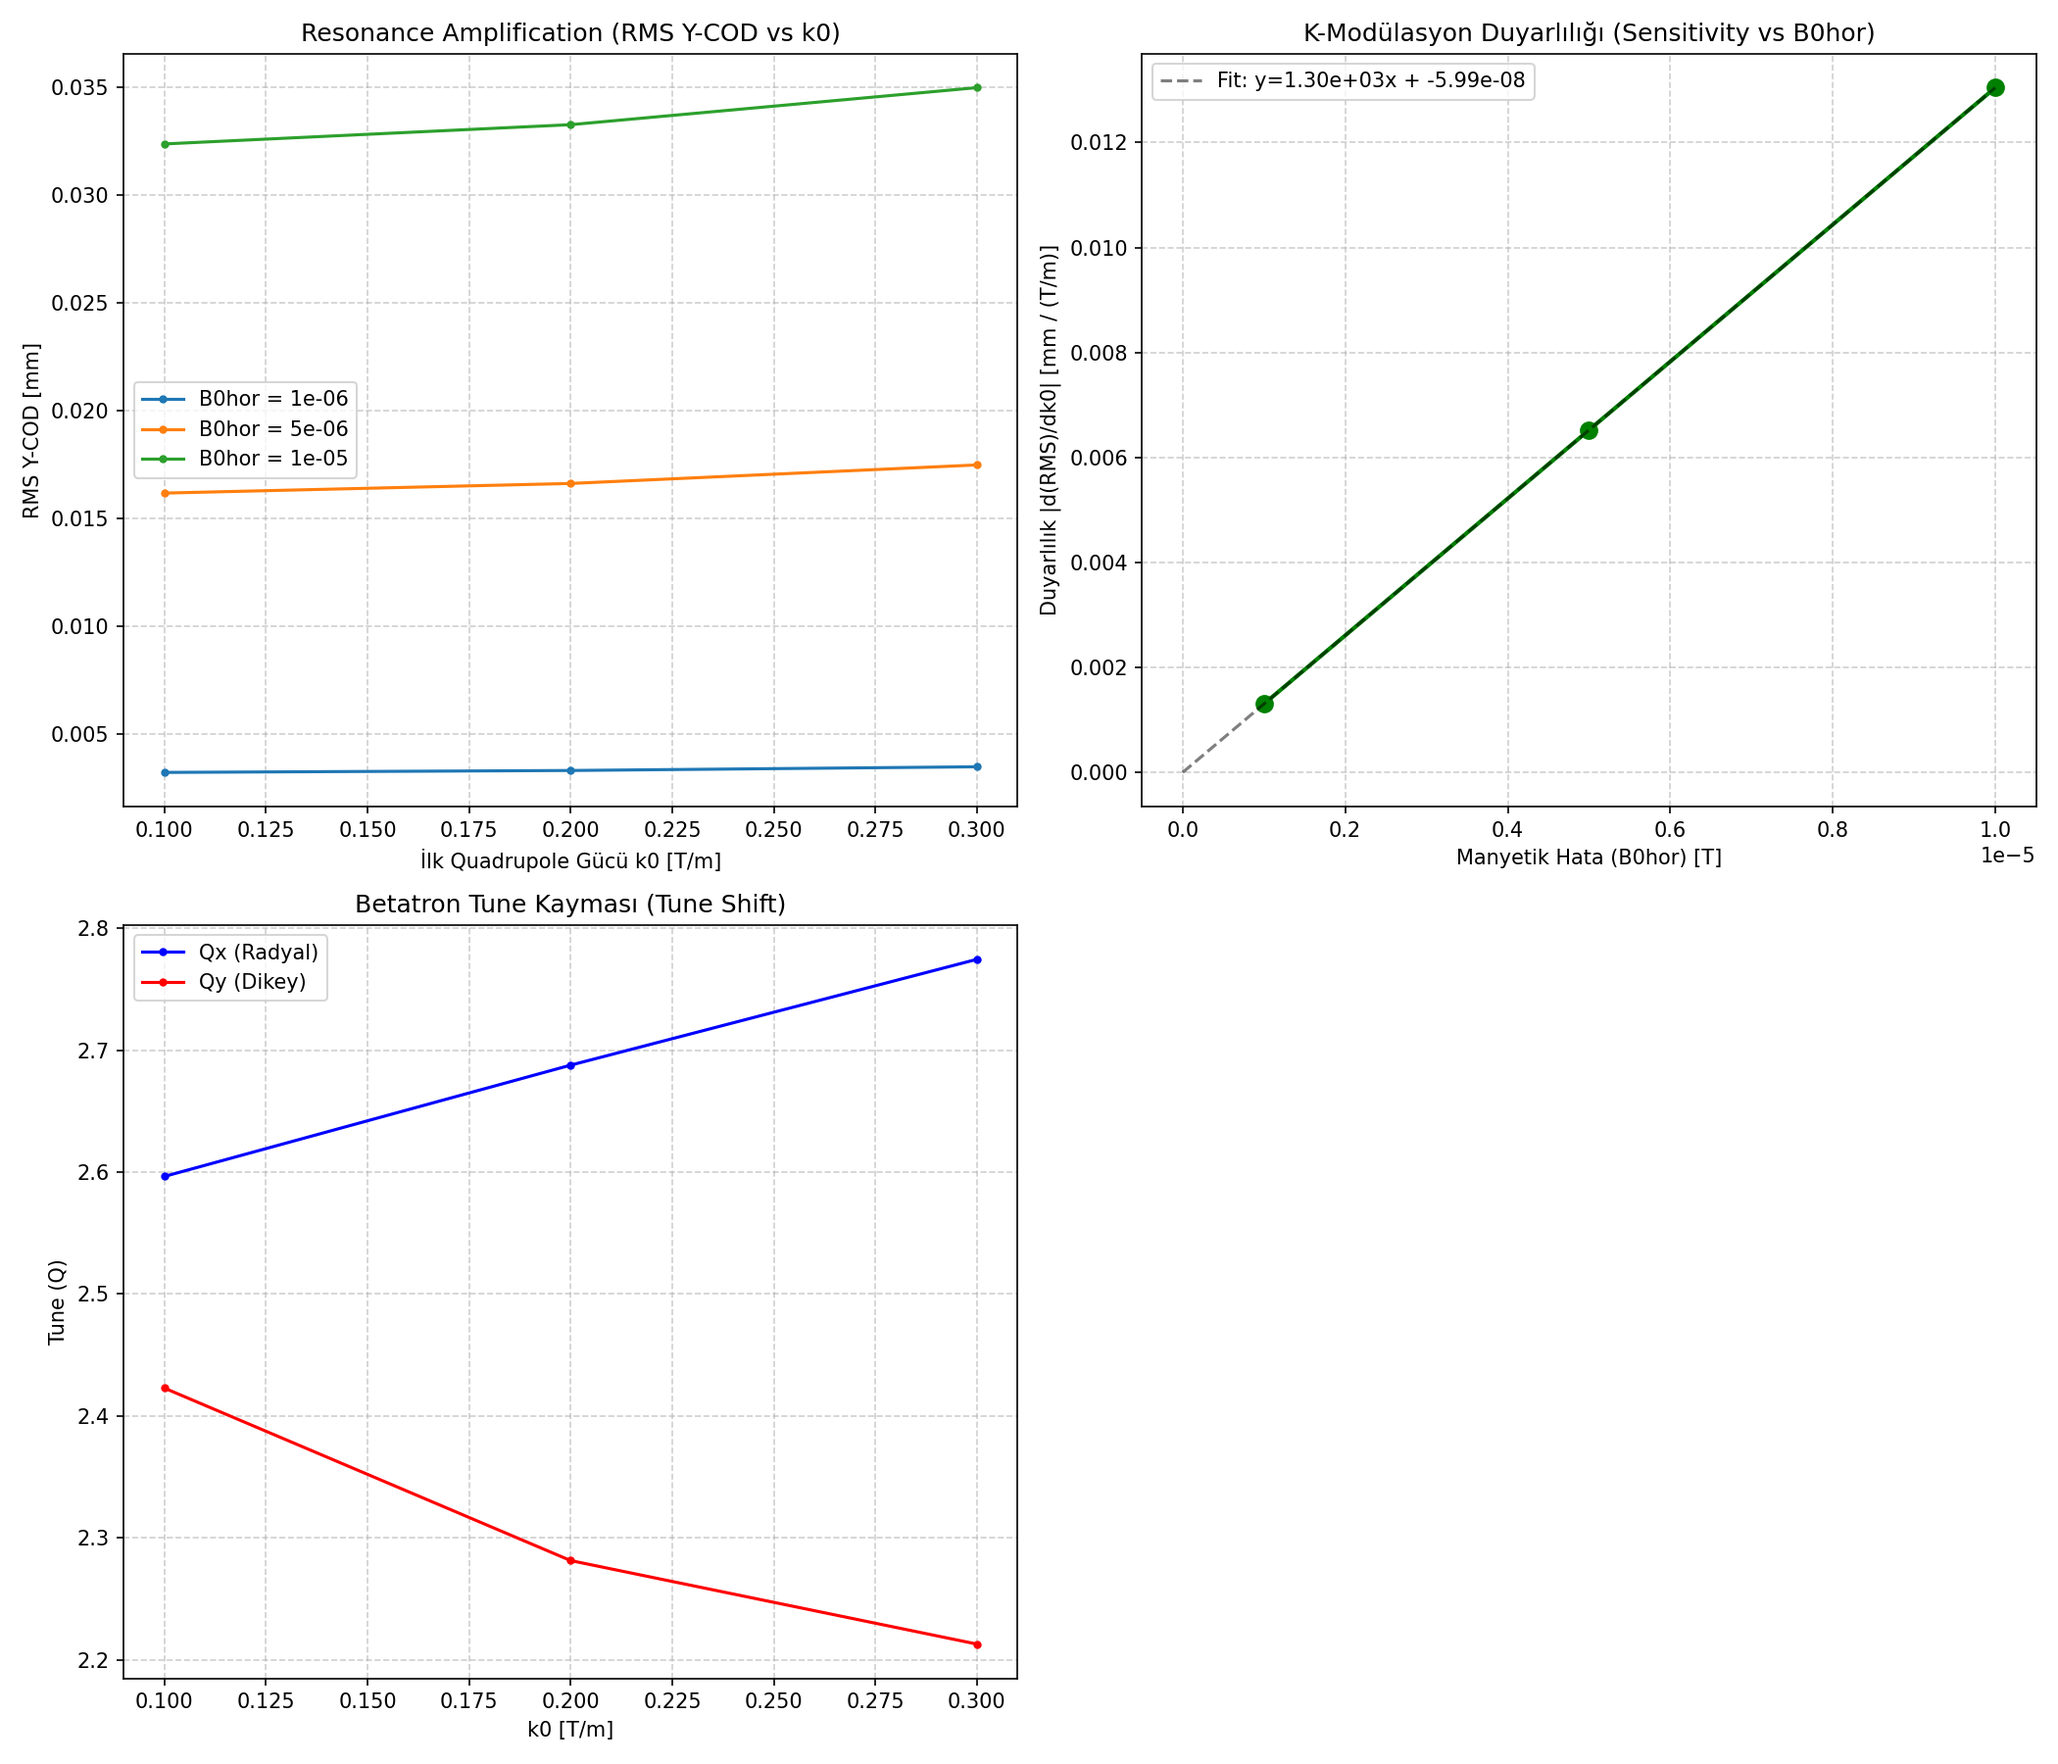
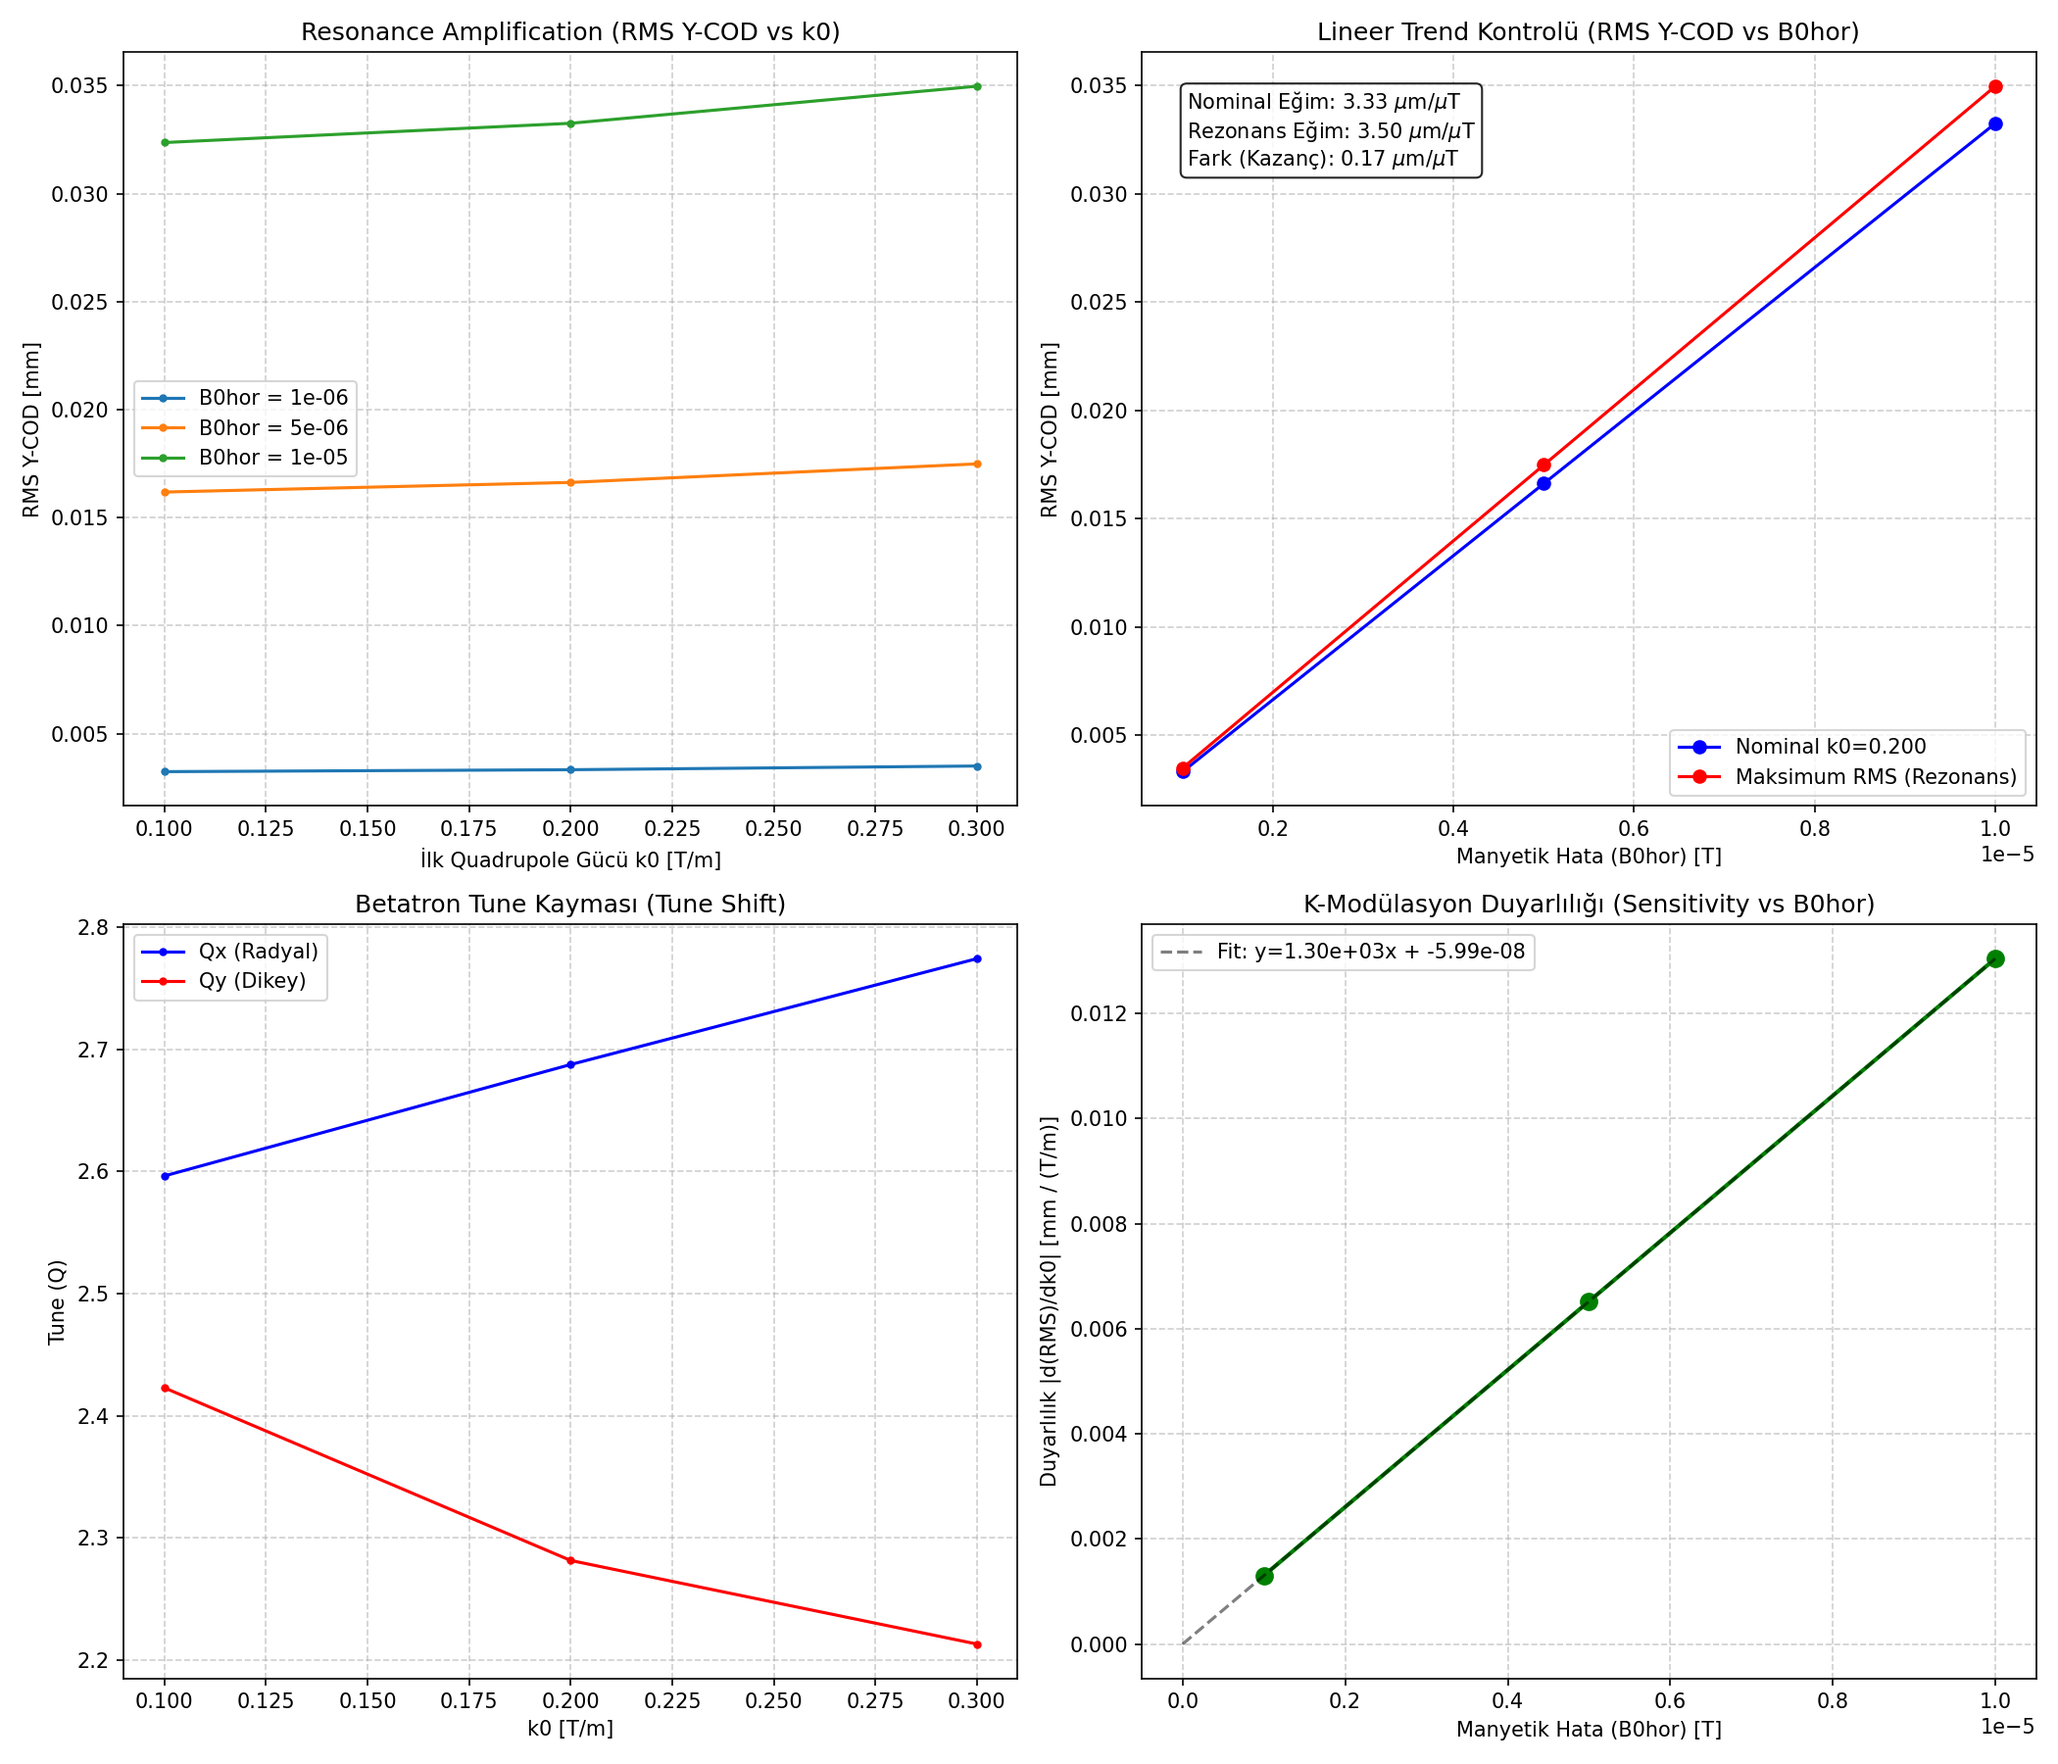
sweep_k0 uzerinden k-modulation eklendi.

diff --git a/sweep_k0.py b/sweep_k0.py
@@ -144,21 +144,36 @@ def plot_2d_results(npz_file="sweep_2d_results.npz", plot_file="sweep_2d_plots.p
     ax1.grid(True, linestyle='--', alpha=0.6)
     ax1.legend()
     
-    # 2. Linear Trend Check: K-Modulation Sensitivity vs B0hor
+    # 2. Linear Trend Check: RMS Y-COD vs B0hor
     ax2 = plt.subplot(2, 2, 2)
-    ax2.plot(B0hor, np.abs(slopes), 'go-', linewidth=2, markersize=8)
-    ax2.set_title("K-Modülasyon Duyarlılığı (Sensitivity vs B0hor)")
+    idx_nominal = np.argmin(np.abs(k0 - 0.2))
+    max_rms_per_bhor = np.max(rms_y, axis=1)
+    
+    ax2.plot(B0hor, rms_y[:, idx_nominal], 'bo-', label=f'Nominal k0={k0[idx_nominal]:.3f}')
+    ax2.plot(B0hor, max_rms_per_bhor, 'ro-', label=f'Maksimum RMS (Rezonans)')
+    ax2.set_title("Lineer Trend Kontrolü (RMS Y-COD vs B0hor)")
     ax2.set_xlabel("Manyetik Hata (B0hor) [T]")
-    ax2.set_ylabel("Duyarlılık |d(RMS)/dk0| [mm / (T/m)]")
+    ax2.set_ylabel("RMS Y-COD [mm]")
     ax2.grid(True, linestyle='--', alpha=0.6)
     
-    # Add a linear fit line to ax2 to show how linear it is
-    valid_slopes = ~np.isnan(slopes)
-    if np.sum(valid_slopes) > 1:
-        m, c = np.polyfit(B0hor[valid_slopes], np.abs(slopes)[valid_slopes], 1)
-        b_range = np.array([0, np.max(B0hor)])
-        ax2.plot(b_range, m*b_range + c, 'k--', alpha=0.5, label=f'Fit: y={m:.2e}x + {c:.2e}')
-        ax2.legend()
+    # Eğimleri hesapla (ΔRMS / ΔB0hor)
+    if len(B0hor) > 1:
+        slope_nom = (rms_y[-1, idx_nominal] - rms_y[0, idx_nominal]) / (B0hor[-1] - B0hor[0])
+        slope_res = (max_rms_per_bhor[-1] - max_rms_per_bhor[0]) / (B0hor[-1] - B0hor[0])
+        
+        # mm/T'yi um/uT'ye çevirmek için 1000'e bölüyoruz
+        s_nom_um_uT = slope_nom / 1000.0
+        s_res_um_uT = slope_res / 1000.0
+        s_diff_um_uT = (slope_res - slope_nom) / 1000.0
+        
+        ax2.text(0.05, 0.95, 
+                 f"Nominal Eğim: {s_nom_um_uT:.2f} $\\mu$m/$\\mu$T\n"
+                 f"Rezonans Eğim: {s_res_um_uT:.2f} $\\mu$m/$\\mu$T\n"
+                 f"Fark (Kazanç): {s_diff_um_uT:.2f} $\\mu$m/$\\mu$T",
+                 transform=ax2.transAxes, fontsize=10, va='top', ha='left',
+                 bbox=dict(boxstyle='round', facecolor='white', alpha=0.85))
+    
+    ax2.legend(loc='lower right')
     
     # 3. Tune Shift
     ax3 = plt.subplot(2, 2, 3)
@@ -169,6 +184,22 @@ def plot_2d_results(npz_file="sweep_2d_results.npz", plot_file="sweep_2d_plots.p
     ax3.set_ylabel("Tune (Q)")
     ax3.grid(True, linestyle='--', alpha=0.6)
     ax3.legend()
+    
+    # 4. K-Modulation Sensitivity (Slope) vs B0hor
+    ax4 = plt.subplot(2, 2, 4)
+    ax4.plot(B0hor, np.abs(slopes), 'go-', linewidth=2, markersize=8)
+    ax4.set_title("K-Modülasyon Duyarlılığı (Sensitivity vs B0hor)")
+    ax4.set_xlabel("Manyetik Hata (B0hor) [T]")
+    ax4.set_ylabel("Duyarlılık |d(RMS)/dk0| [mm / (T/m)]")
+    ax4.grid(True, linestyle='--', alpha=0.6)
+    
+    # Add a linear fit line to ax4 to show how linear it is
+    valid_slopes = ~np.isnan(slopes)
+    if np.sum(valid_slopes) > 1:
+        m, c = np.polyfit(B0hor[valid_slopes], np.abs(slopes)[valid_slopes], 1)
+        b_range = np.array([0, np.max(B0hor)])
+        ax4.plot(b_range, m*b_range + c, 'k--', alpha=0.5, label=f'Fit: y={m:.2e}x + {c:.2e}')
+        ax4.legend()
     
     plt.tight_layout()
     plt.savefig(plot_file, dpi=150)
